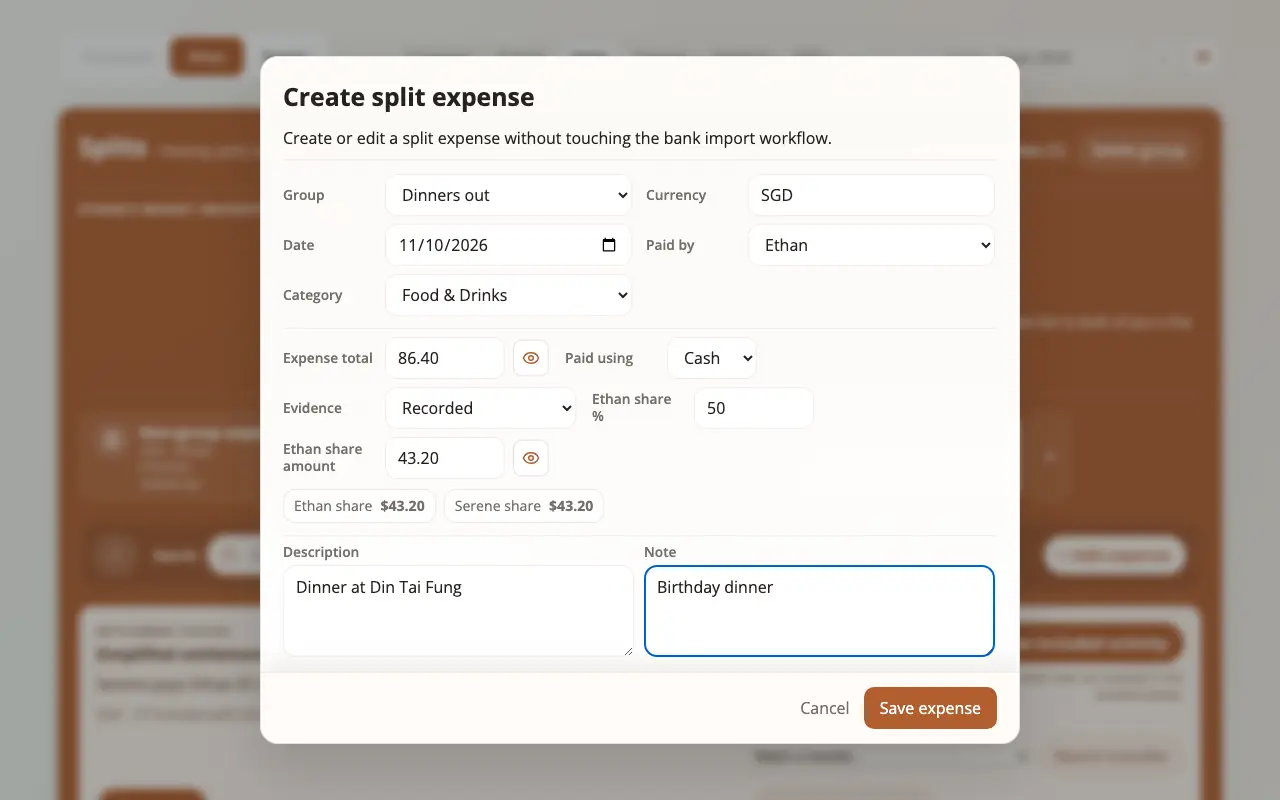
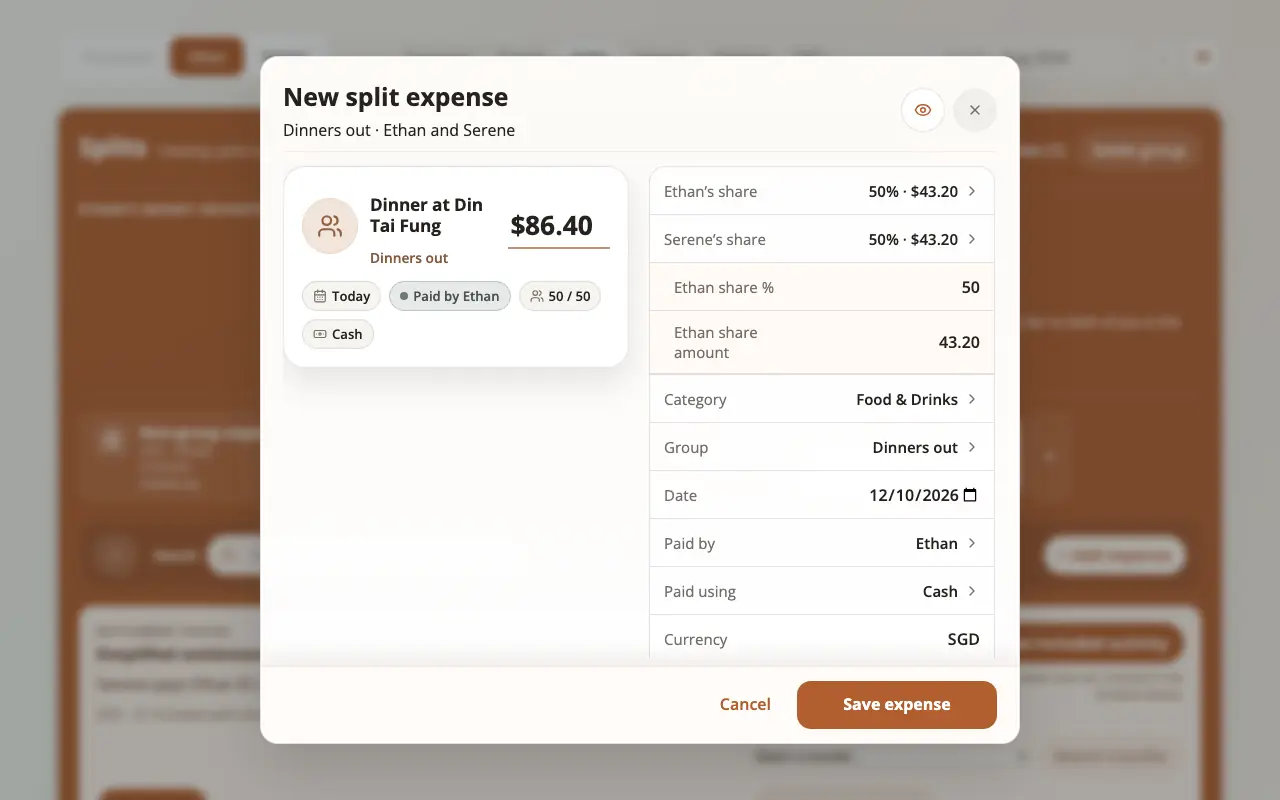
Title the Splits create dialog "New split expense"
Edits keep "Edit split". The guide screenshot is recaptured with the
dialog scrolled back to its card.

diff --git a/tests/e2e/lead-support-detail-sheets.spec.js b/tests/e2e/lead-support-detail-sheets.spec.js
@@ -2,7 +2,7 @@ import { expect, test } from "@playwright/test";
 
 import { loadEntriesPage, loadSplitsPage, postJson, reseedDemo } from "./helpers";
 
-// The Entries edit sheet and Create split expense in the Lead · Support ·
+// The Entries edit sheet and New split expense in the Lead · Support ·
 // Detail style (design.md): one lead card, Support chips, quiet Detail rows
 // and a bottom bar with the primary action under the thumb. These prove the
 // sheets save what the forms saved, keep the statement lock and the in-app
@@ -98,7 +98,7 @@ async function openEditSheet(page, entryId) {
 
 async function openCreateExpense(page) {
   await page.goto(`/splits?view=person-tim&month=2025-10&split_group=split-group-none&split_action=add-expense`);
-  const dialog = page.getByRole("dialog", { name: "Create split expense" });
+  const dialog = page.getByRole("dialog", { name: "New split expense" });
   await expect(dialog).toBeVisible({ timeout: 60_000 });
   return dialog;
 }
@@ -388,7 +388,7 @@ test.describe("Lead · Support · Detail sheets on a phone", { tag: "@webkit" },
     await expect(sheet.locator(".lsd-card .lsd-amount-sign")).toBeHidden();
   });
 
-  test("Create split expense saves an even split's total and shares as the form did", async ({ page }) => {
+  test("New split expense saves an even split's total and shares as the form did", async ({ page }) => {
     await phone(page);
     const description = `Lead split even ${Date.now()}`;
     const dialog = await openCreateExpense(page);
@@ -493,7 +493,7 @@ test.describe("Lead · Support · Detail sheets on a phone", { tag: "@webkit" },
     expect(creates).toBe(0);
   });
 
-  test("every tap target in Create split expense is 44 px or more with room around it", async ({ page }) => {
+  test("every tap target in New split expense is 44 px or more with room around it", async ({ page }) => {
     await phone(page);
     const dialog = await openCreateExpense(page);
     await dialog.locator(".lsd-card").getByRole("textbox", { name: "Expense total" }).fill("10.01");

diff --git a/tests/e2e/page-chrome-while-editing.spec.js b/tests/e2e/page-chrome-while-editing.spec.js
@@ -171,10 +171,10 @@ test.describe("the Splits receipt button and its Add expense dialog", () => {
       page,
       "/splits?view=person-tim&month=2025-10&split_group=split-group-none&split_action=add-expense",
       "/api/splits-page",
-      () => page.getByRole("dialog", { name: "Create split expense" })
+      () => page.getByRole("dialog", { name: "New split expense" })
     );
     const receiptButton = page.locator(".splits-fab");
-    const dialog = page.getByRole("dialog", { name: "Create split expense" });
+    const dialog = page.getByRole("dialog", { name: "New split expense" });
     await expect(dialog).toBeVisible();
     await expect(receiptButton).toHaveCount(1);
     await expect(receiptButton).toBeHidden();

diff --git a/tests/e2e/splits-travel-group.spec.js b/tests/e2e/splits-travel-group.spec.js
@@ -38,7 +38,7 @@ test("a JPY cash-only travel group created in Splits keeps its expense in yen", 
   const groupId = new URL(page.url()).searchParams.get("split_group");
 
   await page.locator(".splits-summary-strip").getByRole("button", { name: "+ Add expense" }).click();
-  const expenseDialog = page.getByRole("dialog", { name: "Create split expense" });
+  const expenseDialog = page.getByRole("dialog", { name: "New split expense" });
   // The Group row keeps its own select over the row on a wide screen.
   const groupSelect = expenseDialog.locator("[data-row='group'] select");
   await expect(groupSelect).toHaveValue(groupId);

diff --git a/tests/e2e/splits-add-expense-dialog.spec.js b/tests/e2e/splits-add-expense-dialog.spec.js
@@ -13,7 +13,7 @@ async function openAddExpenseDialog(page) {
   await expect(page.locator("article.panel-splits")).toBeVisible();
 
   await page.locator(".splits-summary-strip").getByRole("button", { name: "+ Add expense" }).click();
-  const dialog = page.getByRole("dialog", { name: "Create split expense" });
+  const dialog = page.getByRole("dialog", { name: "New split expense" });
   await expect(dialog).toBeVisible();
   return dialog;
 }

diff --git a/src/client/copy/en-SG.js b/src/client/copy/en-SG.js
@@ -317,7 +317,7 @@ export const messages = {
     createGroup: "Create group",
     groupName: "Group name",
     saveGroup: "Save group",
-    createExpense: "Create split expense",
+    createExpense: "New split expense",
     expenseDate: "Date",
     expenseDescription: "Description",
     expenseCategory: "Category",
